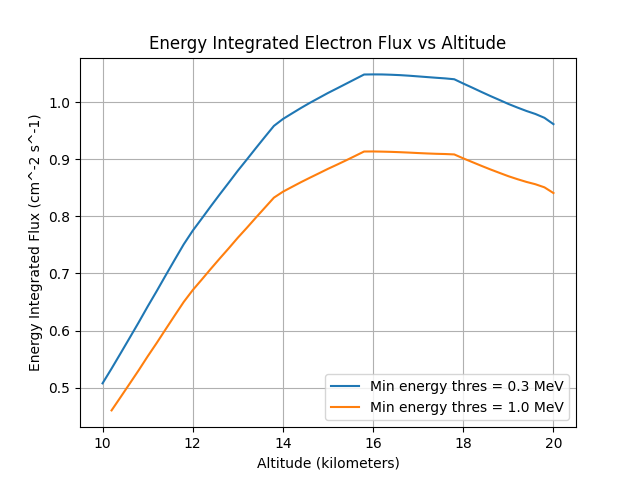
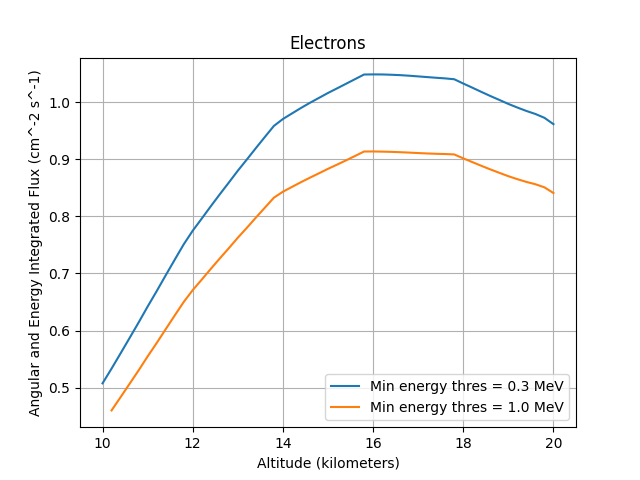
initial commit

Changed region(s): [[0.2188, 0.0625, 0.7812, 0.125], [0.0312, 0.1562, 0.0625, 0.875]]

diff --git a/run_on_grid.py b/run_on_grid.py
@@ -80,8 +80,8 @@ if __name__ == "__main__":
     nn = round(len(altitude_list)/2)
     plt.plot(altitude_list[0:nn], energy_integrated_flux_list[0:nn], label='Min energy thres = 0.3 MeV')
     plt.xlabel('Altitude (kilometers)')
-    plt.ylabel('Energy Integrated Flux (cm^-2 s^-1)')
-    plt.title('Energy Integrated Electron Flux vs Altitude')
+    plt.ylabel('Angular and Energy Integrated Flux (cm^-2 s^-1)')
+    plt.title('Electrons')
     plt.grid(True)
     plt.plot(altitude_list[nn+1:], energy_integrated_flux_list[nn+1:], label='Min energy thres = 1.0 MeV')
     plt.legend()
